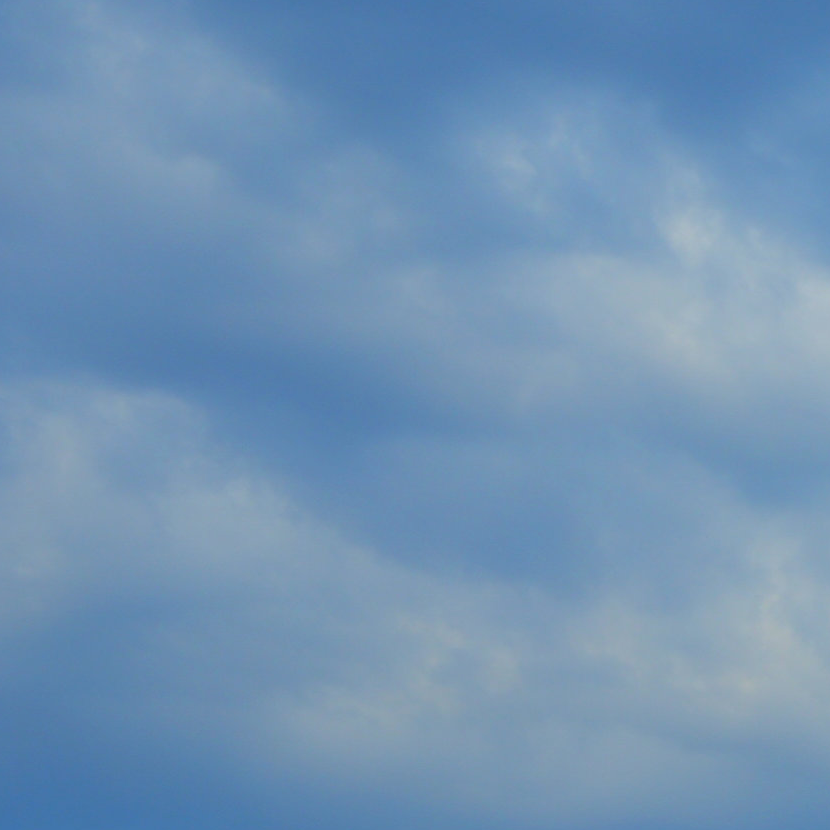
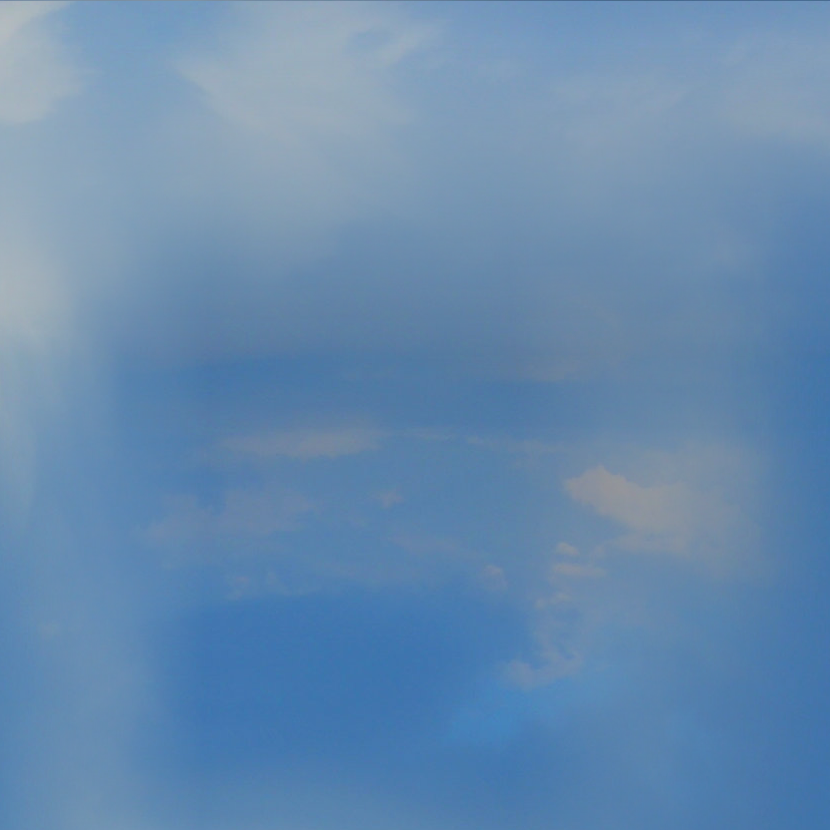
Fixed controls and made things prettier.

diff --git a/js/main.js b/js/main.js
@@ -15,14 +15,14 @@ function render() {
     var time = performance.now();
 
     // Check if on an object
-    controls.isOnObject(false);
     ray.ray.origin.copy(controls.getObject().position);
-    ray.ray.origin.y -= CAMERA_HEIGHT;
 
     // ray works but check pointerlock source for isOnObject and compare to FPC
 
     var intersections = ray.intersectObject(floor);
 
+    /* // With jump
+    controls.isOnObject(false);
     if ( intersections.length > 0 ) {
         var distance = intersections[0].distance;
         if (distance > 0 && distance <= CAMERA_HEIGHT) {
@@ -32,12 +32,22 @@ function render() {
 
         }
     }
+    */
+    // Disables jump
+    controls.isOnObject(true);
+    if ( intersections.length > 0 ) {
+        var distance = intersections[0].distance;
+        var pos = controls.getObject().position;
+        pos.setY(pos.y + (CAMERA_HEIGHT - distance));
+
+    }
+
     controls.update(time-lastTime);
     lastTime = time;
 
 }
 
-var CAMERA_HEIGHT = 3;
+var CAMERA_HEIGHT = 2;
 
 
 // Use three.js to initialize scene, camera, and renderer...
@@ -68,6 +78,8 @@ scene.add(light);
 
 // Add fog
 //scene.fog = new THREE.FogExp2(0x996633, 0.008);
+scene.fog = new THREE.FogExp2(0x658ab1, 0.008);
+//scene.fog = new THREE.FogExp2(0xffffff, 0.01);
 
 // Generate Skybox
 var urls = [
@@ -79,6 +91,17 @@ var urls = [
     'img/sky/nz.png'
 
 ];
+/*
+var urls = [
+    'img/test/nx.png',
+    'img/test/px.png',
+    'img/test/py.png',
+    'img/test/ny.png',
+    'img/test/pz.png',
+    'img/test/nz.png'
+
+];
+*/
 
 var sky_map = THREE.ImageUtils.loadTextureCube(urls);
 sky_map.format = THREE.RGBFormat;
